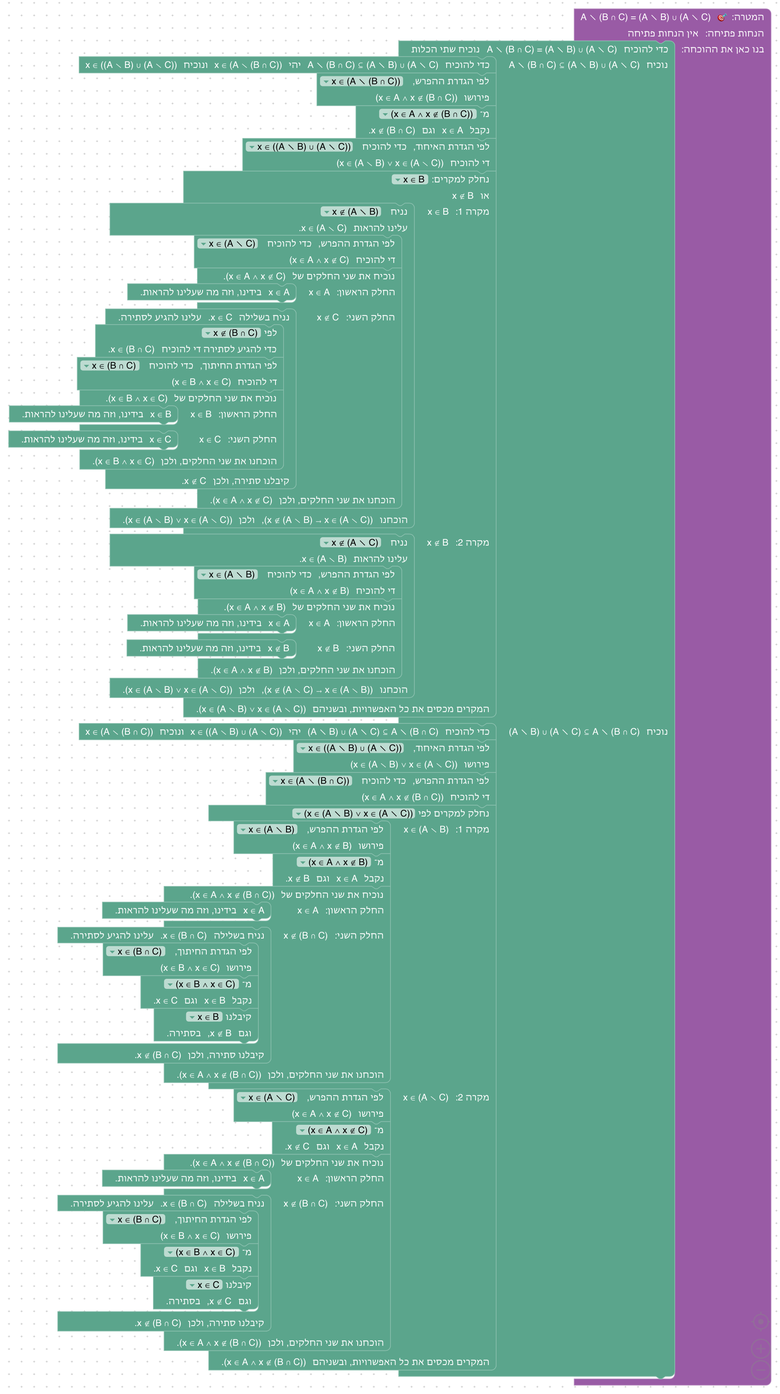
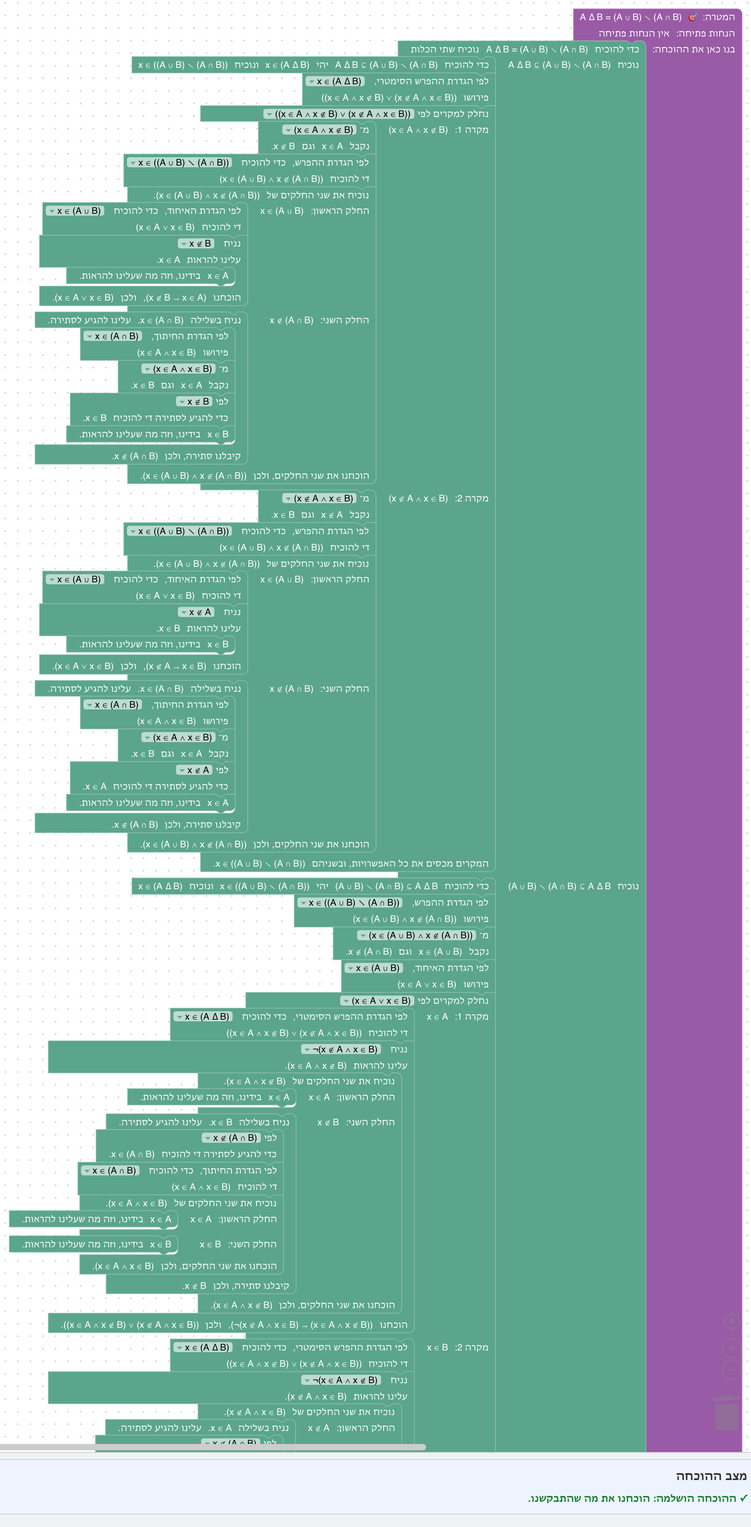
The lecture's remaining proofs: 9.10 (the second definition of the symmetric difference), 10.11 (De Morgan for the unary union) and 11.4-11.5 (the equivalent definition of a partition, each direction)
Sets of complements Set.compls with its display, more rounds to settle the moves' states in long proofs, and the walk types a compound object when the menu offers writing one.

Changed region(s): [[0.0, 0.0, 1.0, 1.0], [0.5221, 0.7747, 0.5528, 0.8057]]

diff --git a/frontend/e2e/solutions.js b/frontend/e2e/solutions.js
@@ -345,6 +345,20 @@ const COURSE = [
             [{
                 label: 'פתרון',
                 steps: [setEq(
+                    [subsetIntro, unfold('x ∈ A ∆ B'), orCases('x ∈ A ∧ ¬x ∈ B ∨ ¬x ∈ A ∧ x ∈ B',
+                        [andElim('x ∈ A ∧ ¬x ∈ B'), unfold('x ∈ (A ∪ B) \\ (A ∩ B)'), andIntro(
+                            [unfold('x ∈ A ∪ B'), orIntro('LEFT'), close],
+                            [notIntro, unfold('x ∈ A ∩ B'), andElim('x ∈ A ∧ x ∈ B'), notElim('¬x ∈ B'), close])],
+                        [andElim('¬x ∈ A ∧ x ∈ B'), unfold('x ∈ (A ∪ B) \\ (A ∩ B)'), andIntro(
+                            [unfold('x ∈ A ∪ B'), orIntro('RIGHT'), close],
+                            [notIntro, unfold('x ∈ A ∩ B'), andElim('x ∈ A ∧ x ∈ B'), notElim('¬x ∈ A'), close])])],
+                    [subsetIntro, unfold('x ∈ (A ∪ B) \\ (A ∩ B)'), andElim('x ∈ A ∪ B ∧ ¬x ∈ A ∩ B'), unfold('x ∈ A ∪ B'), orCases('x ∈ A ∨ x ∈ B',
+                        [unfold('x ∈ A ∆ B'), orIntro('LEFT'), andIntro([close], [notIntro, notElim('¬x ∈ A ∩ B'), unfold('x ∈ A ∩ B'), andIntro([close], [close])])],
+                        [unfold('x ∈ A ∆ B'), orIntro('RIGHT'), andIntro([notIntro, notElim('¬x ∈ A ∩ B'), unfold('x ∈ A ∩ B'), andIntro([close], [close])], [close])])])],
+            }],
+            [{
+                label: 'פתרון',
+                steps: [setEq(
                     [subsetIntro, unfold('x ∈ A \\ (B ∩ C)'), andElim('x ∈ A ∧ ¬x ∈ B ∩ C'), unfold('x ∈ A \\ B ∪ A \\ C'), emCases('x ∈ B',
                         [orIntro('RIGHT'), unfold('x ∈ A \\ C'), andIntro([close], [notIntro, notElim('¬x ∈ B ∩ C'), unfold('x ∈ B ∩ C'), andIntro([close], [close])])],
                         [orIntro('LEFT'), unfold('x ∈ A \\ B'), andIntro([close], [close])])],
@@ -402,6 +416,23 @@ const COURSE = [
             [{
                 label: 'פתרון',
                 steps: [setEq(
+                    [subsetIntro, unfold('x ∈ U \\ ⋃ X'), andElim('x ∈ U ∧ ¬x ∈ ⋃ X'), unfold('x ∈ ⋂ Set.compls U X'), forallIntro, assume,
+                        unfold('S₀ ∈ Set.compls U X'), existsElim('∃ A, A ∈ X ∧ S₀ = U \\ A'), andElim('A₀ ∈ X ∧ S₀ = U \\ A₀'),
+                        rewrite('S₀ = U \\ A₀', 'FORWARD', '__goal__'), unfold('x ∈ U \\ A₀'),
+                        andIntro([close], [notIntro, notElim('¬x ∈ ⋃ X'), unfold('x ∈ ⋃ X'), existsIntro('A₀'), andIntro([close], [close])])],
+                    [subsetIntro, unfold('x ∈ ⋂ Set.compls U X'), unfold('x ∈ U \\ ⋃ X'),
+                        andIntro(
+                            [forallElim('∀ (S : Set obj), S ∈ Set.compls U X → x ∈ S', 'U \\ C'),
+                                claim('U \\ C ∈ Set.compls U X', [unfold('U \\ C ∈ Set.compls U X'), existsIntro('C'), andIntro([close], [['rfl']])]),
+                                forward('U \\ C ∈ Set.compls U X → x ∈ U \\ C', 'U \\ C ∈ Set.compls U X'), unfold('x ∈ U \\ C'), andElim('x ∈ U ∧ ¬x ∈ C'), close],
+                            [notIntro, unfold('x ∈ ⋃ X'), existsElim('∃ S, S ∈ X ∧ x ∈ S'), andElim('S₀ ∈ X ∧ x ∈ S₀'),
+                                forallElim('∀ (S : Set obj), S ∈ Set.compls U X → x ∈ S', 'U \\ S₀'),
+                                claim('U \\ S₀ ∈ Set.compls U X', [unfold('U \\ S₀ ∈ Set.compls U X'), existsIntro('S₀'), andIntro([close], [['rfl']])]),
+                                forward('U \\ S₀ ∈ Set.compls U X → x ∈ U \\ S₀', 'U \\ S₀ ∈ Set.compls U X'), unfold('x ∈ U \\ S₀'), andElim('x ∈ U ∧ ¬x ∈ S₀'), notElim('¬x ∈ S₀'), close])])],
+            }],
+            [{
+                label: 'פתרון',
+                steps: [setEq(
                     [subsetIntro, unfold('x ∈ ⋃ (𝒫 A)'), existsElim('∃ S, S ∈ 𝒫 A ∧ x ∈ S'), andElim('S₀ ∈ 𝒫 A ∧ x ∈ S₀'), unfold('S₀ ∈ 𝒫 A'), subsetElim('S₀ ⊆ A', 'x ∈ S₀'), close],
                     [subsetIntro, unfold('x ∈ ⋃ (𝒫 A)'), existsIntro('A'), andIntro([unfold('A ∈ 𝒫 A'), subsetIntro, close], [close])])],
             }],
@@ -425,6 +456,31 @@ const COURSE = [
                 forallElim(ONLY('T', 't₁', 'y₀'), 't₀'), forward('t₀ ∈ T → y₀ ∈ t₀ → t₀ = t₁', 't₀ ∈ T'), forward('y₀ ∈ t₀ → t₀ = t₁', 'y₀ ∈ t₀'),
                 forallElim(ONLY('T', 't₁', 'y₀'), 'x'), forward('x ∈ T → y₀ ∈ x → x = t₁', 'x ∈ T'), forward('y₀ ∈ x → x = t₁', 'y₀ ∈ x'),
                 rewrite('x = t₁', 'FORWARD', '__goal__'), rewrite('t₀ = t₁', 'BACKWARD', '__goal__'), close])] }],
+            [{ label: 'פתרון', steps: [unfold('partition P A'), andElim(` ${PARTITION('P')}`), andIntro(
+                [setEq(
+                    [subsetIntro, unfold('x ∈ ⋃ P'), existsElim('∃ S, S ∈ P ∧ x ∈ S'), andElim('S₀ ∈ P ∧ x ∈ S₀'),
+                        forallElim(P1('P'), 'S₀'), forward('S₀ ∈ P → S₀ ⊆ A ∧ ∃ y, y ∈ S₀', 'S₀ ∈ P'), andElim('S₀ ⊆ A ∧ ∃ y, y ∈ S₀'), subsetElim('S₀ ⊆ A', 'x ∈ S₀'), close],
+                    [subsetIntro, forallElim(UNIQUE('P'), 'x'), forward(IMPL('P', 'x'), 'x ∈ A'), existsElim(EXISTS('P', 'x')), andElim(CLASS('P', 't₀', 'x')), andElim(REST('P', 't₀', 'x')),
+                        unfold('x ∈ ⋃ P'), existsIntro('t₀'), andIntro([close], [close])])],
+                [forallIntro, forallIntro, assume, assume, orByNegation,
+                    claim('∃ a, a ∈ x₀ ∩ y₀', [byContradiction, notElim('¬x₀ ∩ y₀ = ∅'), setEq(
+                        [subsetIntro, exfalso, notElim('¬∃ a, a ∈ x₀ ∩ y₀'), existsIntro('x'), close],
+                        [subsetIntro, unfold('x ∈ ∅'), exfalso, close])]),
+                    existsElim('∃ a, a ∈ x₀ ∩ y₀'), unfold('a₀ ∈ x₀ ∩ y₀'), andElim('a₀ ∈ x₀ ∧ a₀ ∈ y₀'),
+                    forallElim(P1('P'), 'x₀'), forward('x₀ ∈ P → x₀ ⊆ A ∧ ∃ y, y ∈ x₀', 'x₀ ∈ P'), andElim('x₀ ⊆ A ∧ ∃ y, y ∈ x₀'), subsetElim('x₀ ⊆ A', 'a₀ ∈ x₀'),
+                    forallElim(UNIQUE('P'), 'a₀'), forward(IMPL('P', 'a₀'), 'a₀ ∈ A'), existsElim(EXISTS('P', 'a₀')), andElim(CLASS('P', 't₀', 'a₀')), andElim(REST('P', 't₀', 'a₀')),
+                    forallElim(ONLY('P', 't₀', 'a₀'), 'x₀'), forward('x₀ ∈ P → a₀ ∈ x₀ → x₀ = t₀', 'x₀ ∈ P'), forward('a₀ ∈ x₀ → x₀ = t₀', 'a₀ ∈ x₀'),
+                    forallElim(ONLY('P', 't₀', 'a₀'), 'y₀'), forward('y₀ ∈ P → a₀ ∈ y₀ → y₀ = t₀', 'y₀ ∈ P'), forward('a₀ ∈ y₀ → y₀ = t₀', 'a₀ ∈ y₀'),
+                    rewrite('x₀ = t₀', 'FORWARD', '__goal__'), rewrite('y₀ = t₀', 'FORWARD', '__goal__'), ['rfl']])] }],
+            [{ label: 'פתרון', steps: [unfold('partition P A'), andIntro(
+                [close],
+                [forallIntro, assume, rewrite('⋃ P = A', 'BACKWARD', 'a₀ ∈ A'), unfold('a₀ ∈ ⋃ P'), existsElim('∃ S, S ∈ P ∧ a₀ ∈ S'), andElim('S₀ ∈ P ∧ a₀ ∈ S₀'),
+                    existsIntro('S₀'), andIntro([close], [andIntro([close], [forallIntro, assume, assume,
+                        forallElim('∀ (x y : Set obj), x ∈ P → y ∈ P → x ∩ y = ∅ ∨ x = y', `t'₀`), forallElim(`∀ (y : Set obj), t'₀ ∈ P → y ∈ P → t'₀ ∩ y = ∅ ∨ t'₀ = y`, 'S₀'),
+                        forward(`t'₀ ∈ P → S₀ ∈ P → t'₀ ∩ S₀ = ∅ ∨ t'₀ = S₀`, `t'₀ ∈ P`), forward(`S₀ ∈ P → t'₀ ∩ S₀ = ∅ ∨ t'₀ = S₀`, 'S₀ ∈ P'),
+                        orCases(`t'₀ ∩ S₀ = ∅ ∨ t'₀ = S₀`,
+                            [exfalso, claim(`a₀ ∈ t'₀ ∩ S₀`, [unfold(`a₀ ∈ t'₀ ∩ S₀`), andIntro([close], [close])]), rewrite(`t'₀ ∩ S₀ = ∅`, 'FORWARD', `a₀ ∈ t'₀ ∩ S₀`), unfold('a₀ ∈ ∅'), close],
+                            [close])])])])] }],
         ],
     },
 ];

diff --git a/frontend/src/game/unit11World.js b/frontend/src/game/unit11World.js
@@ -12,6 +12,7 @@ import { prepareLevels } from './levelXml';
 export const unit11WorldName = 'יחידה 11 - חלוקות';
 
 const SETS = 'variable {obj : Type} {A : Set obj} {S T : Set (Set obj)}';
+const ONE_PARTITION = 'variable {obj : Type} {A : Set obj} {P : Set (Set obj)}';
 
 // The moves as the toolbox shows them, before they are placed.
 const SUBSET_INTRO_BLOCK = '"כדי להוכיח הכלה: יהי איבר של הקבוצה המוכלת, ונוכיח שהוא שייך לקבוצה המכילה"';
@@ -37,7 +38,7 @@ const partition = {
 const level = (number, fields) => ({
     id: `unit11-${number}`,
     levelNumber: number,
-    totalLevels: 3,
+    totalLevels: 5,
     usesSets: true,
     variableLine: SETS,
     params: '',
@@ -116,5 +117,48 @@ export const unit11Levels = prepareLevels([
         ],
         conclusion: `זה המשפט מההרצאה. שימו לב שהיחידות שבה השתמשנו היא של החלוקה **T**: s ו־t שתיהן ב־T. אילו s היה רק ב־S, לא הייתה סיבה לשוויון.
 התנאי שמחלקה לא ריקה נחוץ: בלעדיו אפשר להוסיף ל־T את ∅ ולקבל S ⊊ T, עם אותה הגדרה של "כל איבר שייך למחלקה אחת בדיוק".`,
+    }),
+    level(4, {
+        title: 'ההגדרה השקולה של חלוקה: הכיוון ⇒',
+        name: 'unit11_l4_partition_equiv_forward',
+        variableLine: ONE_PARTITION,
+        params: '(hP : partition P A)',
+        proposition: '⋃ P = A ∧ ∀ (x y : Set obj), x ∈ P → y ∈ P → x ∩ y = ∅ ∨ x = y',
+        claims: ['∃ a, a ∈ x₀ ∩ y₀'],
+        toolboxBlocks: ['and_intro', 'unfold', 'and_elim', 'forall_elim', 'forward', 'exists_elim', 'exists_intro', 'set_eq', 'subset_intro', 'subset_elim', 'forall_intro', 'assume', 'or_by_negation', 'by_contradiction', 'exfalso', 'claim', 'not_elim', 'rewrite', 'rfl', 'exact'],
+        introduction: `# ההגדרה השקולה של חלוקה
+
+בהרצאה: S חלוקה של A אם ורק אם שלושה תנאים: (1) כל מחלקה היא תת־קבוצה לא ריקה של A, (2) \`⋃S = A\`, ו־(3) כל שתי מחלקות x, y ∈ S זרות או שוות: \`x ∩ y = ∅ ∨ x = y\`. תנאי (1) הוא החלק הראשון של ההגדרה, ולכן נשאר להוכיח את (2) ואת (3).
+
+(⇒) נניח ש־P חלוקה של A. (2): ⊆: מחלקה שמכילה את x היא תת־קבוצה של A. ⊇: לכל a ∈ A יש מחלקה שמכילה אותו. (3): נניח ש־x ∩ y ≠ ∅, ויהי a ∈ x ∩ y. מיחידות המחלקה של a, x = y.
+
+יש לשים לב שכאן שם הקבוצה הוא P, כדי שלא יתבלבל עם המשתנה S שבהגדרת האיחוד האונרי.`,
+        hints: [
+            `פתחו את ההגדרה של partition(P, A), ופרקו את ה"וגם". הוכיחו את שני חלקי ה"וגם" של המטרה, ${AND_INTRO_BLOCK}.`,
+            `החלק הראשון, ⋃P = A: ${SET_EQ_BLOCK}. ב־⋃P ⊆ A: יהי x ∈ ⋃P, ופתחו את ההגדרה: x ∈ S₀ לאיזושהי S₀ ∈ P. החלק הראשון של ההגדרה נותן S₀ ⊆ A.`,
+            `ב־A ⊆ ⋃P: יהי x ∈ A. החלק השני של ההגדרה נותן מחלקה t₀ ∈ P עם x ∈ t₀, ולכן x ∈ ⋃P, עם העד t₀.`,
+            `החלק השני: יהיו x, y מחלקות ב־P. כדי להוכיח את ה"או", נניח x ∩ y ≠ ∅, ונוכיח x = y. כמו בהרצאה: יש a ∈ x ∩ y (בהוכחה בשלילה: אחרת x ∩ y = ∅).`,
+            `מיחידות המחלקה של a, x = t₀ וגם y = t₀, ולכן x = y.`,
+        ],
+        conclusion: 'הראינו ש־⋃P = A ושכל שתי מחלקות זרות או שוות. בכיוון ⇐, בשלב הבא, חוזרים מ־(1)–(3) להגדרה המקורית.',
+    }),
+    level(5, {
+        title: 'ההגדרה השקולה של חלוקה: הכיוון ⇐',
+        name: 'unit11_l5_partition_equiv_backward',
+        variableLine: ONE_PARTITION,
+        params: '(h1 : ∀ (t : Set obj), t ∈ P → t ⊆ A ∧ ∃ y, y ∈ t) (h2 : ⋃ P = A) (h3 : ∀ (x y : Set obj), x ∈ P → y ∈ P → x ∩ y = ∅ ∨ x = y)',
+        proposition: 'partition P A',
+        claims: ["a₀ ∈ t'₀ ∩ S₀"],
+        toolboxBlocks: ['unfold', 'and_intro', 'forall_intro', 'assume', 'rewrite', 'exists_elim', 'and_elim', 'exists_intro', 'forall_elim', 'forward', 'or_elim', 'claim', 'exfalso', 'exact'],
+        introduction: `# ההגדרה השקולה של חלוקה: הכיוון ⇐
+
+(⇐) נניח (1) כל מחלקה לא ריקה ומוכלת ב־A, (2) \`⋃P = A\`, ו־(3) כל שתי מחלקות זרות או שוות. נוכיח שזו חלוקה: החלק הראשון של ההגדרה הוא (1). לכל a ∈ A: מ־(2), a ∈ ⋃P, ולכן יש מחלקה t ∈ P עם a ∈ t. יחידות: אם t′ ∈ P ו־a ∈ t′, אז מ־(3), t ∩ t′ = ∅ או t = t′. האפשרות הראשונה נשללת, כי a ∈ t ∩ t′. לכן t′ = t.`,
+        hints: [
+            `פתחו את ההגדרה במטרה, והוכיחו את שני החלקים. החלק הראשון הוא (1), והוא כבר בידינו.`,
+            `בחלק השני: יהי a ∈ A. מ־⋃P = A, החליפו את A ב־⋃P לפי השוויון, ופתחו את הגדרת האיחוד האונרי: מקבלים S₀ ∈ P עם a ∈ S₀. בחרו את S₀, וכבר בידינו S₀ ∈ P ו־a ∈ S₀.`,
+            `ליחידות: יהי t′ ∈ P עם a ∈ t′. הציבו ב־(3) את t′ ואת S₀: מקבלים t′ ∩ S₀ = ∅ או t′ = S₀. חלקו למקרים.`,
+            `במקרה t′ ∩ S₀ = ∅ נקבל סתירה: טענת עזר a ∈ t′ ∩ S₀, והחלפה לפי השוויון נותנת a ∈ ∅. במקרה t′ = S₀ סיימנו.`,
+        ],
+        conclusion: 'הראינו ש־P חלוקה של A. יחד עם הכיוון ⇒: P חלוקה של A אם ורק אם מתקיימים שלושת התנאים. בכל אחת משתי ההגדרות אפשר להשתמש לפי הנוחות.',
     }),
 ]);

diff --git a/frontend/src/game/unit10World.js b/frontend/src/game/unit10World.js
@@ -13,6 +13,7 @@ import { prepareLevels } from './levelXml';
 export const unit10WorldName = 'יחידה 10 - קבוצת החזקה ופעולות אונריות';
 
 const SETS = 'variable {obj : Type} {A B : Set obj}';
+const UNIVERSE = 'variable {obj : Type} {U : Set obj} {X : Set (Set obj)}';
 const SET_OF_SETS = 'variable {obj : Type} {A : Set obj} {X : Set (Set obj)}';
 const TWO_FAMILIES = 'variable {obj : Type} {X Y : Set (Set obj)}';
 
@@ -33,6 +34,10 @@ const EXISTS_ELIM_BLOCK = '"לפי ? ניתן שם לעצם כזה."';
 const FORALL_ELIM_BLOCK = '"ב־ ? נציב ? ונקבל מה שהוא אומר על העצם."';
 const FORWARD_BLOCK = '"מ־ ? ומ־ ? נקבל את המסקנה של הגרירה."';
 const CLOSE_BLOCK = '"המטרה בידינו, וזה מה שעלינו להראות."';
+const NOT_INTRO_BLOCK = '"נניח בשלילה את הטענה שהמטרה שוללת..."';
+const NOT_ELIM_BLOCK = '"לפי ? כדי להגיע לסתירה די להוכיח את הטענה שהיא שוללת."';
+const REWRITE_BLOCK = '"לפי השוויון ? נחליף ... בתוך ?"';
+const RFL_BLOCK = '"שני הצדדים שווים לפי ההגדרה."';
 const FORALL_INTRO_BLOCK = '"יהי עצם שרירותי. עלינו להראות שהוא מקיים את התכונה."';
 
 const powerset = { symbol: 'קבוצת החזקה', doc: '𝒫(A) = {X | X ⊆ A}: הקבוצה שאיבריה הם כל תת־הקבוצות של A. לכן X ∈ 𝒫(A) פירושו X ⊆ A.' };
@@ -44,7 +49,7 @@ const sInter = { symbol: 'החיתוך האונרי', doc: '⋂X = {a | ∀A ∈
 const level = (number, fields) => ({
     id: `unit10-${number}`,
     levelNumber: number,
-    totalLevels: 11,
+    totalLevels: 12,
     usesSets: true,
     variableLine: SETS,
     params: '',
@@ -262,6 +267,31 @@ export const unit10Levels = prepareLevels([
         conclusion: `כשהאוסף גדל, החיתוך קטן: יש יותר קבוצות לחתוך, ופחות איברים משותפים לכולן. ושוב: ⋂ הולך עם "לכל", ולכן מוכיחים שייכות אליו בעצם שרירותי, כמו בתבנית של ההרצאה.`,
     }),
     level(11, {
+        title: 'דה־מורגן לאיחוד אונרי',
+        name: 'unit10_l11_de_morgan_sunion',
+        variableLine: UNIVERSE,
+        params: '(C : Set obj) (hC : C ∈ X)',
+        proposition: 'U \\ ⋃ X = ⋂ (Set.compls U X)',
+        claims: ['U \\ C ∈ Set.compls U X', 'U \\ S₀ ∈ Set.compls U X'],
+        toolboxBlocks: ['set_eq', 'subset_intro', 'unfold', 'and_elim', 'and_intro', 'forall_intro', 'assume', 'exists_elim', 'exists_intro', 'rewrite', 'not_intro', 'not_elim', 'claim', 'forall_elim', 'forward', 'rfl', 'exact'],
+        introduction: `# דה־מורגן לאיחוד אונרי
+
+בהרצאה: כלל דה־מורגן לאיחוד אונרי. בקבוצת יקום U ובאוסף X של קבוצות (שלא ריק): \`U ∖ ⋃X = ⋂{U ∖ A | A ∈ X}\`, המשלים של האיחוד הוא החיתוך של המשלימים. כאן {U ∖ A | A ∈ X} היא האוסף של כל הקבוצות U ∖ A, כשהקבוצה A עוברת על X.
+
+x ∈ U ∖ ⋃X פירושו x ∈ U ו־x ∉ ⋃X, כלומר x לא שייך לאף קבוצה של X. וגם x ∈ ⋂{U ∖ A | A ∈ X} פירושו שלכל A ∈ X, x ∈ U ∖ A. ההוכחה היא שתי הכלות, בתבנית של ההרצאה.
+
+כאן C ∈ X, ולכן X אינו ריק, ו־⋂ מוגדר. נחוץ לפחות איבר אחד של X כדי להראות ש־x ∈ U.`,
+        newDefinitions: [{ symbol: 'משלימי הקבוצות של אוסף', doc: '{U ∖ A | A ∈ X}: האוסף שאיבריו הם הקבוצות U ∖ A, לכל A ∈ X. לכן B ∈ {U ∖ A | A ∈ X} פירושו ∃A (A ∈ X ∧ B = U ∖ A).' }],
+        hints: [
+            `גררו את הבלוק ${SET_EQ_BLOCK}. בחלק הראשון: ${SUBSET_INTRO_BLOCK} יהי x ∈ U ∖ ⋃X, פתחו את ההגדרה ופרקו את ה"וגם": x ∈ U ו־x ∉ ⋃X.`,
+            `פתחו את ההגדרה של x ∈ ⋂{U ∖ A | A ∈ X} במטרה: ∀S (S ∈ {U ∖ A | A ∈ X} → x ∈ S). ${FORALL_INTRO_BLOCK} ואחריו ${ASSUME_BLOCK}: S₀ ∈ {U ∖ A | A ∈ X}. פתחו את ההגדרה: ${EXISTS_ELIM_BLOCK} נותן A₀ ∈ X עם S₀ = U ∖ A₀.`,
+            `${REWRITE_BLOCK} עם S₀ = U ∖ A₀: נשאר להוכיח x ∈ U ∖ A₀, כלומר x ∈ U (בידינו) ו־x ∉ A₀: ${NOT_INTRO_BLOCK} x ∈ A₀, ו${NOT_ELIM_BLOCK} עם x ∉ ⋃X: די להוכיח x ∈ ⋃X, עם העד A₀.`,
+            `בחלק השני: יהי x ∈ ⋂{U ∖ A | A ∈ X}. בעזרת C ∈ X, ${CLAIM_BLOCK} U ∖ C ∈ {U ∖ A | A ∈ X} (העד C), והצבה ב־∀: x ∈ U ∖ C, ובפרט x ∈ U.`,
+            `ועוד: x ∉ ⋃X. נניח x ∈ ⋃X, עם עד S₀ ∈ X, x ∈ S₀. אז U ∖ S₀ ∈ {U ∖ A | A ∈ X} (עם העד S₀), ולכן x ∈ U ∖ S₀, בסתירה ל־x ∈ S₀.`,
+        ],
+        conclusion: 'הוכחתם: U ∖ ⋃X = ⋂{U ∖ A | A ∈ X}, כמו בהרצאה. זה כלל דה־מורגן לאיחוד אונרי: "לא שייך לאיחוד" פירושו "לא שייך לאף אחת מהקבוצות", ו"שייך לכל המשלימים" פירושו אותו דבר. הכלל הכפול, למשלים של החיתוך, מוכח באופן דומה.',
+    }),
+    level(12, {
         title: 'שלב בונוס: איחוד אונרי של קבוצת החזקה',
         name: 'unit10_l9_sunion_powerset',
         proposition: '⋃ (𝒫 A) = A',

diff --git a/frontend/src/game/unit9World.js b/frontend/src/game/unit9World.js
@@ -57,7 +57,7 @@ const symmDiff = { symbol: 'ההפרש הסימטרי', doc: 'A ∆ B = {x | (x 
 const level = (number, fields) => ({
     id: `unit9-${number}`,
     levelNumber: number,
-    totalLevels: 10,
+    totalLevels: 11,
     usesSets: true,
     variableLine: SETS,
     params: '',
@@ -248,9 +248,28 @@ export const unit9Levels = prepareLevels([
             'בחלק השני, חלקו למקרים לפי x ∈ (A ∖ B) ∨ x ∈ (B ∖ A), פתחו את ההגדרה של המקרה, ובחרו את הצד המתאים של ההפרש הסימטרי.',
         ],
         conclusion: `A ∆ B = (A ∖ B) ∪ (B ∖ A), כמו בהרצאה: "x ∈ A ∆ B ⟺ (x ∈ A ∧ x ∉ B) ∨ (x ∉ A ∧ x ∈ B) ⟺ x ∈ (A ∖ B) ∨ x ∈ (B ∖ A)".
-בהרצאה הוכחנו גם ש־A ∆ B = (A ∪ B) ∖ (A ∩ B), ולכן לשלוש ההגדרות אותה משמעות, ואפשר להשתמש בכל אחת מהן לפי הנוחות.`,
+בשלב הבא נראה גם ש־A ∆ B = (A ∪ B) ∖ (A ∩ B), ולכן לשלוש ההגדרות אותה משמעות, ואפשר להשתמש בכל אחת מהן לפי הנוחות.`,
     }),
     level(10, {
+        title: 'הגדרה שנייה להפרש הסימטרי',
+        name: 'unit9_l10_symmetric_difference_two',
+        proposition: 'A ∆ B = (A ∪ B) \\ (A ∩ B)',
+        toolboxBlocks: ['set_eq', 'subset_intro', 'unfold', 'or_elim', 'or_by_negation', 'or_intro', 'and_elim', 'and_intro', 'not_intro', 'not_elim', 'exact'],
+        introduction: `# הגדרה שנייה להפרש הסימטרי
+
+בהרצאה נתנו שתי הגדרות להפרש הסימטרי: \`A ∆ B = (A ∖ B) ∪ (B ∖ A)\` (שלב 9.9) ו־\`A ∆ B = (A ∪ B) ∖ (A ∩ B)\`. כאן נוכיח את השקילות עם ההגדרה של ההרצאה, "בדיוק אחת מהקבוצות": x ∈ A ∆ B אם ורק אם x ∈ A ∪ B ו־x ∉ A ∩ B.
+
+בהכלה הראשונה מחלקים למקרים לפי ה"או" של ההפרש הסימטרי. במקרה x ∈ A ∧ x ∉ B, x ∈ A ∪ B, ו־x ∉ A ∩ B כי אילו x ∈ A ∩ B היה גם x ∈ B. בהכלה השנייה מחלקים למקרים לפי x ∈ A ∨ x ∈ B: אם x ∈ A, אז x ∉ B, כי אילו x ∈ B היה x ∈ A ∩ B, בסתירה.`,
+        newDefinitions: [inter],
+        hints: [
+            `גררו את הבלוק ${SET_EQ_BLOCK}. בכל חלק: יהי x באגף שמאל, ופתחו את ההגדרות בהנחה ובמטרה.`,
+            `בחלק הראשון, ${OR_ELIM_BLOCK} עם ה"או" של ההפרש הסימטרי. בכל מקרה פרקו את ה"וגם", והוכיחו את שני חלקי ה"וגם" של המטרה: x ∈ A ∪ B (בחירת צד), ו־x ∉ A ∩ B (${NOT_INTRO_BLOCK}: x ∈ A ∩ B, ופתחו את ההגדרה, ו${NOT_ELIM_BLOCK} עם x ∉ B).`,
+            `בחלק השני, פרקו את ה"וגם" שבהנחה, ו${OR_ELIM_BLOCK} לפי x ∈ A ∨ x ∈ B. במקרה x ∈ A בחרו את הצד הראשון של ההפרש הסימטרי: x ∈ A כבר בידינו, ו־x ∉ B: נניח x ∈ B, ו${NOT_ELIM_BLOCK} עם x ∉ A ∩ B: די להוכיח x ∈ A ∩ B, ופתחו את ההגדרה והוכיחו את שני החלקים.`,
+            `במקרה x ∈ B אותו דבר, עם הצד השני של ההפרש הסימטרי.`,
+        ],
+        conclusion: 'A ∆ B = (A ∖ B) ∪ (B ∖ A) = (A ∪ B) ∖ (A ∩ B): שלוש ההגדרות של ההפרש הסימטרי שקולות, ואפשר להשתמש בכל אחת מהן. בשתיהן x שייך לאחת הקבוצות בדיוק.',
+    }),
+    level(11, {
         title: 'שלב בונוס: כלל דה־מורגן',
         name: 'unit9_l9_de_morgan',
         proposition: 'A \\ (B ∩ C) = (A \\ B) ∪ (A \\ C)',

diff --git a/frontend/src/game/formatProofGoal.js b/frontend/src/game/formatProofGoal.js
@@ -267,6 +267,7 @@ const writeImages = (text) => {
     const group = String.raw`(\((?:[^()]|\((?:[^()]|\([^()]*\))*\))*\)|[^\s()]+)`;
     result = result.replace(new RegExp(String.raw`Set\.sep ${group} ([^\s()]+)`, 'u'), (match, set, p) => `{x ∈ ${set} | ${p}(x)}`);
     result = result.replace(new RegExp(String.raw`Set\.repl ([^\s()]+) ${group}`, 'u'), (match, f, set) => `{${f}(x) | x ∈ ${set}}`);
+    result = result.replace(new RegExp(String.raw`Set\.compls ([^\s()]+) ${group}`, 'u'), (match, u, set) => `{${u} \\ A | A ∈ ${set}}`);
     for (let previous = null; previous !== result;) {
         previous = result;
         result = result.replace(/Set\.(image|preimage) (\S+) (\((?:[^()]|\((?:[^()]|\([^()]*\))*\))*\)|[^\s()]+)/u,
@@ -415,6 +416,8 @@ const SET_OPERATIONS = {
     image: { lemma: 'easylean_mem_image', name: 'התמונה', means: (t, [f, a]) => `∃ x, x ∈ ${a} ∧ ${f} x = ${t}` },
     preimage: { lemma: 'easylean_mem_preimage', name: 'התמונה ההפוכה', means: (t, [f, b]) => `${f} ${t} ∈ ${b}` },
     // Sets defined as the lecture's slide does (unit 8): by separation, {x ∈ A | P(x)}, and by a template, {f(x) | x ∈ A}.
+    // The complements, in a universe U, of the sets of a family X (unit 10): {U ∖ A | A ∈ X}.
+    compls: { lemma: 'easylean_mem_compls', name: 'משלימי הקבוצות של אוסף', means: (t, [u, x]) => `∃ A, A ∈ ${x} ∧ ${t} = ${u} \\ A` },
     sep: { lemma: 'easylean_mem_sep', name: 'קבוצה לפי הפרדה', means: (t, [a, p]) => `${t} ∈ ${a} ∧ ${p} ${t}` },
     repl: { lemma: 'easylean_mem_repl', name: 'קבוצה לפי תבנית', means: (t, [f, a]) => `∃ x, x ∈ ${a} ∧ ${f} x = ${t}` },
     setOf: { lemma: 'easylean_mem_setOf', name: 'קבוצה לפי תכונה', means: (t, [x, p]) => substituteName(stripOuterParentheses(p), stripOuterParentheses(x), t) },
@@ -464,6 +467,8 @@ const mainSetOperation = (text) => {
     if (equivalenceClass) return { operation: '[]_', operands: [equivalenceClass[1], equivalenceClass[2]] };
     const image = set.match(/^Set\.(image|preimage) (\S+) (.+)$/);
     if (image) return { operation: image[1], operands: [image[2], image[3]] };
+    const complements = set.match(/^Set\.compls (\S+) (.+)$/u);
+    if (complements) return { operation: 'compls', operands: [complements[1], complements[2]] };
     const separation = set.match(/^Set\.sep (.+) (\S+)$/u);
     if (separation) return { operation: 'sep', operands: [separation[1], separation[2]] };
     const template = set.match(/^Set\.repl (\S+) (.+)$/u);

diff --git a/frontend/src/generator/lean.js b/frontend/src/generator/lean.js
@@ -64,8 +64,10 @@ theorem easylean_mem_compl {α : Type u} {A : Set α} {x : α} : x ∈ Aᶜ ↔ 
 theorem easylean_mem_empty {α : Type u} {x : α} : x ∈ (∅ : Set α) ↔ False := Iff.rfl
 theorem easylean_mem_powerset {α : Type u} {A B : Set α} : B ∈ 𝒫 A ↔ B ⊆ A := Iff.rfl
 theorem easylean_mem_sUnion {α : Type u} {F : Set (Set α)} {x : α} : x ∈ ⋃ F ↔ ∃ S, S ∈ F ∧ x ∈ S := Iff.rfl
+@[pp_nodot] def Set.compls {α : Type u} (U : Set α) (X : Set (Set α)) : Set (Set α) := fun B => ∃ A, A ∈ X ∧ B = U \\ A
 def partition {α : Type u} (S : Set (Set α)) (A : Set α) : Prop :=
   (∀ t, t ∈ S → t ⊆ A ∧ ∃ y, y ∈ t) ∧ ∀ a, a ∈ A → ∃ t, t ∈ S ∧ a ∈ t ∧ ∀ t', t' ∈ S → a ∈ t' → t' = t
+theorem easylean_mem_compls {α : Type u} {U : Set α} {X : Set (Set α)} {B : Set α} : B ∈ Set.compls U X ↔ ∃ A, A ∈ X ∧ B = U \\ A := Iff.rfl
 theorem easylean_partition {α : Type u} {S : Set (Set α)} {A : Set α} : partition S A ↔ ((∀ t, t ∈ S → t ⊆ A ∧ ∃ y, y ∈ t) ∧ ∀ a, a ∈ A → ∃ t, t ∈ S ∧ a ∈ t ∧ ∀ t', t' ∈ S → a ∈ t' → t' = t) := Iff.rfl
 theorem easylean_mem_sInter {α : Type u} {F : Set (Set α)} {x : α} : x ∈ ⋂ F ↔ ∀ S, S ∈ F → x ∈ S := Iff.rfl
 theorem easylean_subset_intro {α : Type u} {A B : Set α} (h : ∀ x, x ∈ A → x ∈ B) : A ⊆ B := h

diff --git a/frontend/e2e/walk.spec.js b/frontend/e2e/walk.spec.js
@@ -536,6 +536,12 @@ const chooseValue = async (page, id, field, value) => {
             return;
         }
     }
+    // An object that is not a name, such as U \\ C, is typed by the student (the last item of the menu).
+    if (field === 'TERM' && options.includes('__write_own__')) {
+        await page.evaluate(([id, field, typed]) => window.__easyleanWorkspace.getBlockById(id).getField(field).setValue(typed), [id, field, value]);
+        await page.waitForTimeout(3500);
+        return;
+    }
     throw new Error(`menu of ${field} offers ${options.join(' | ')}, not ${value}`);
 };
 

diff --git a/frontend/src/game/GameWorkspace.jsx b/frontend/src/game/GameWorkspace.jsx
@@ -296,7 +296,7 @@ const GameWorkspace = ({
     // general wording.
     const moveStatesRequestRef = useRef(0);
     const settleMoveStates = async (requestId, signal) => {
-        for (let round = 0, checked = null; round < 5; round += 1) {
+        for (let round = 0, checked = null; round < 8; round += 1) {
             const source = buildMoveStatesSource(workspace, level, preamble);
             if (!source || source.code === checked || signal?.aborted) return;
             checked = source.code;

diff --git a/docs/curriculum/10-power-set.md b/docs/curriculum/10-power-set.md
@@ -29,7 +29,8 @@
 | 10.8 | דוגמה: שימוש בתבניות (⋂X ⊆ A) | A ∈ X ⊢ ⋂X ⊆ A | הכלה, לפי ההגדרה, הצבה, הסקה קדימה או אחורה, סיום |
 | 10.9 | דוגמה: שימוש בתבניות (A ⊆ ⋃X) | A ∈ X ⊢ A ⊆ ⋃X | הכלה, לפי ההגדרה, בחירת עד, "וגם", סיום |
 | 10.10 | תרגיל לדוגמה: X ⊆ Y → ⋂Y ⊆ ⋂X ("החיתוך מתהפך") | X ⊆ Y ⊢ ⋂Y ⊆ ⋂X | הכלה, לפי ההגדרה, "לכל", נניח, שימוש בהכלה, הצבה, הסקה קדימה, סיום |
-| 10.11 | איחוד אונרי של קבוצת החזקה (בונוס) | ⋃𝒫(A) = A | שוויון קבוצות, הכלה, לפי ההגדרה, "קיים", "וגם", בחירת עד, סיום |
+| 10.11 | דה־מורגן לאיחוד אונרי | U ∖ ⋃X = ⋂{U ∖ A \| A ∈ X}, כש־X לא ריקה | שוויון קבוצות, הכלה, לפי ההגדרה, "לכל", "קיים", החלפה לפי שוויון, טענת עזר, שלילה, סיום |
+| 10.12 | איחוד אונרי של קבוצת החזקה (בונוס) | ⋃𝒫(A) = A | שוויון קבוצות, הכלה, לפי ההגדרה, "קיים", "וגם", בחירת עד, סיום |
 
 ### 10.4: הכיוון השני, בטענת עזר
 
@@ -61,19 +62,25 @@
 
 ![10.10](images/unit10-level10-a.png)
 
-### 10.11: איחוד אונרי של קבוצת החזקה
+### 10.11: דה־מורגן לאיחוד אונרי
+
+**למה כך:** "הוכחות של דה מורגן לאיחוד אונרי" מופיעות בתכנון בהערות לתרגול. האוסף {U ∖ A | A ∈ X} הוא `Set.compls U X` (`SET_PRELUDE`), והוא מוצג כך; שייכות אליו היא `∃ A, A ∈ X ∧ B = U ∖ A` (`easylean_mem_compls`), והסימון הוא תצוגה בלבד (`writeImages` ב־`formatProofGoal.js`). X לא ריקה (C ∈ X), כי ⋂ של אוסף ריק לא מוגדר. הכיוון ⊆: מ־x ∈ U ∖ ⋃X, לכל משלים U ∖ A₀ בן האוסף (לפי "קיים") מחליפים ב־U ∖ A₀, וה־x ∉ A₀ מושג מ־x ∉ ⋃X. הכיוון ⊇: x ∈ U נובע מהצבה ב־U ∖ C, ו־x ∉ ⋃X: אילו x ∈ S₀ ∈ X, הצבה ב־U ∖ S₀ נותנת x ∉ S₀.
+
+![10.11](images/unit10-level11-a.png)
+
+### 10.12: איחוד אונרי של קבוצת החזקה
 
 **למה כך:** בכיוון ⊇ העד בהרצאה הוא היחידון {x}; בבלוקים אין יחידונים, ולכן העד הוא A עצמה (A ∈ 𝒫(A), 10.1), והטקסט אומר זאת. הסיכום מנסח את ההערה של ההרצאה על שני עדים בשמות שונים (S₀, S₁) נכון: בשלב הזה יש רק עד אחד.
 
 ### שאר השלבים
 
-![10.1](images/unit10-level1-a.png) ![10.2](images/unit10-level2-a.png) ![10.3](images/unit10-level3-a.png) ![10.5](images/unit10-level5-a.png) ![10.8](images/unit10-level8-a.png) ![10.9](images/unit10-level9-a.png) ![10.11](images/unit10-level11-a.png)
+![10.1](images/unit10-level1-a.png) ![10.2](images/unit10-level2-a.png) ![10.3](images/unit10-level3-a.png) ![10.5](images/unit10-level5-a.png) ![10.8](images/unit10-level8-a.png) ![10.9](images/unit10-level9-a.png) ![10.12](images/unit10-level12-a.png)
 
 ## מה מההרצאה לא נכנס, ולמה
 
 - **|𝒫(A)| = 2ⁿ, הכלי האינטראקטיבי, 𝒫({1,2}):** אין ספירה וקבוצות מפורשות.
 - **הכיוון "רק אם" של 𝒫(A ∪ B) = 𝒫(A) ∪ 𝒫(B), וההפרכה בדוגמה {1}, {2}:** צריך את הקבוצה {a, b}; הכיוון "אם" הוא 10.7.
-- **⋃ ו־⋂ של אוסף שמוגדר בתבנית, דה־מורגן לאונריים, קיום ויחידות של האיחוד והחיתוך, תנאים שקולים ל־X = 𝒫(A):** אין בבלוקים קבוצה מוגדרת בתבנית על קבוצות; חלק מהן אפשריות בעתיד.
+- **⋃ ו־⋂ של אוסף שמוגדר בתבנית (חוץ ממשלימי האוסף ב־10.11), הדה־מורגן הכפול, קיום ויחידות של האיחוד והחיתוך, תנאים שקולים ל־X = 𝒫(A):** אין בבלוקים קבוצה מוגדרת בתבנית על קבוצות; חלק מהן אפשריות בעתיד.
 - **חלוקות:** יחידה 11.
 
 </div>

diff --git a/docs/curriculum/09-set-operations.md b/docs/curriculum/09-set-operations.md
@@ -28,7 +28,8 @@
 | 9.7 | תבנית: איך מוכיחים שקבוצה ריקה (הכיוון ⇒) | (A ∖ B = ∅) → A ⊆ B | נניח, הכלה, בשלילה, טענת עזר, החלפה לפי שוויון, לפי ההגדרה, סיום |
 | 9.8 | טבלת המצבים: גם להכלה | A ∖ C ⊆ (A ∖ B) ∪ (B ∖ C) | הכלה, לפי ההגדרה, "וגם", חלוקה למקרים לפי x ∈ B או שלילתה, בחירת צד, סיום |
 | 9.9 | טענה: A ∆ B = (A ∖ B) ∪ (B ∖ A) | A ∆ B = (A ∖ B) ∪ (B ∖ A) | שוויון קבוצות, הכלה, לפי ההגדרה, חלוקה למקרים, בחירת צד, "וגם", סיום |
-| 9.10 | הוכחת כלל דה־מורגן (בונוס) | A ∖ (B ∩ C) = (A ∖ B) ∪ (A ∖ C) | המהלכים של שתי ההכלות, כולל חלוקה למקרים לפי x ∈ B |
+| 9.10 | הגדרה שנייה להפרש הסימטרי | A ∆ B = (A ∪ B) ∖ (A ∩ B) | שוויון קבוצות, הכלה, לפי ההגדרה, חלוקה למקרים, בחירת צד, שלילה, סתירה מהשלילה, סיום |
+| 9.11 | הוכחת כלל דה־מורגן (בונוס) | A ∖ (B ∩ C) = (A ∖ B) ∪ (A ∖ C) | המהלכים של שתי ההכלות, כולל חלוקה למקרים לפי x ∈ B |
 
 ### 9.3: הכלה בחיתוך
 
@@ -60,15 +61,20 @@
 
 ![9.9](images/unit9-level9-a.png)
 
+### 9.10: הגדרה שנייה להפרש הסימטרי
+
+**למה כך:** התכנון מבקש לתת שתי הגדרות להפרש הסימטרי ו"בהינתן זמן להוכיח את השקילות". 9.9 מוכיח את `A ∆ B = (A ∖ B) ∪ (B ∖ A)`, וכאן ההגדרה השנייה, `A ∆ B = (A ∪ B) ∖ (A ∩ B)`. בהכלה הראשונה מחלקים למקרים לפי ה"או" של ההפרש הסימטרי; במקרה x ∈ A ∧ x ∉ B, ה־x ∉ A ∩ B נובע מהשלילה (אילו x ∈ A ∩ B היה x ∈ B). בהכלה השנייה מחלקים לפי x ∈ A ∨ x ∈ B ובוחרים את הצד המתאים; ה־x ∉ B (או x ∉ A) נובע מ־x ∉ A ∩ B. כל המהלכים מוכרים (שלילה והסקה מהשלילה, מיחידה 4), ואין בו מהלך חדש.
+
+![9.10](images/unit9-level10-a.png)
+
 ### שאר השלבים
 
-![9.1](images/unit9-level1-a.png) ![9.2](images/unit9-level2-a.png) ![9.4](images/unit9-level4-a.png) ![9.5](images/unit9-level5-a.png) ![9.10](images/unit9-level10-a.png)
+![9.1](images/unit9-level1-a.png) ![9.2](images/unit9-level2-a.png) ![9.4](images/unit9-level4-a.png) ![9.5](images/unit9-level5-a.png) ![9.11](images/unit9-level11-a.png)
 
 ## מה מההרצאה לא נכנס, ולמה
 
-- **הדוגמאות המפורשות (A = {1, 2, ∅} וכו', והתרגיל לדוגמה על הסטודנטים):** אין בבלוקים קבוצות מפורשות; התרגיל על הסטודנטים הוא דה־מורגן, שמופיע בבונוס 9.10.
+- **הדוגמאות המפורשות (A = {1, 2, ∅} וכו', והתרגיל לדוגמה על הסטודנטים):** אין בבלוקים קבוצות מפורשות; התרגיל על הסטודנטים הוא דה־מורגן, שמופיע בבונוס 9.11.
 - **אידמפוטנטיות, פעולות עם ∅, חוק הקיבוץ, פילוג האיחוד על החיתוך:** אפשריים באותם מהלכים; נבחרו נציגים (חילוף ופילוג) כדי שהיחידה לא תתארך.
-- **A ∆ B = (A ∪ B) ∖ (A ∩ B):** מוזכרת בסיכום של 9.9; בענף `main` יש שלב על כיוון אחד שלה.
 - **הוכחה בשקילויות לוגיות (שרשרת ⟺):** אין מהלך שמחליף שייכות בשייכות שקולה בתוך שוויון קבוצות; ההוכחה כאן בשתי הכלות.
 
 </div>

diff --git a/docs/curriculum/11-partitions.md b/docs/curriculum/11-partitions.md
@@ -25,6 +25,8 @@ S חלוקה של A אם `S ⊆ 𝒫(A) ∖ {∅}` וגם `∀a ∈ A ∃!t ∈ 
 | 11.1 | חלוקה של קבוצה (הגדרה) | partition(S, A), a ∈ A ⊢ ∃t (t ∈ S ∧ a ∈ t) | לפי ההגדרה, "וגם", הצבה, הסקה קדימה, "קיים", סיום |
 | 11.2 | יחידות המחלקה (בהגדרה, ובמשפט) | partition(T, A), a ∈ C, a ∈ D ⊢ D = C | לפי ההגדרה, "וגם", הצבה, הסקה קדימה, "קיים", החלפה לפי שוויון, שני הצדדים שווים |
 | 11.3 | משפט: חלוקה המוכלת בחלוקה שווה לה | partition(S, A), partition(T, A), S ⊆ T ⊢ S = T | שוויון קבוצות, הכלה, לפי ההגדרה, "וגם", הצבה, הסקה קדימה, "קיים", שימוש בהכלה, החלפה לפי שוויון, סיום |
+| 11.4 | הגדרה שקולה של חלוקה (⇒) | partition(P, A) ⊢ ⋃P = A ∧ ∀x, y ∈ P (x ∩ y = ∅ ∨ x = y) | לפי ההגדרה, "וגם", שוויון קבוצות, הכלה, הצבה, הסקה קדימה, "קיים", "או" בהנחת שלילה, טענת עזר, בשלילה, החלפה לפי שוויון, שני הצדדים שווים |
+| 11.5 | הגדרה שקולה של חלוקה (⇐) | (1), ⋃P = A, (3) ⊢ partition(P, A) | לפי ההגדרה, "וגם", "לכל", החלפה לפי שוויון, "קיים", הצבה, הסקה קדימה, חלוקה למקרים, טענת עזר, מסתירה נובע הכול |
 
 ### 11.1: כל איבר שייך למחלקה
 
@@ -44,9 +46,14 @@ S חלוקה של A אם `S ⊆ 𝒫(A) ∖ {∅}` וגם `∀a ∈ A ∃!t ∈ 
 
 ![11.3](images/unit11-level3-a.png)
 
+### 11.4 ו־11.5: ההגדרה השקולה של חלוקה
+
+**למה כך:** השקף "הגדרה שקולה של חלוקה", והתכנון ("יש להראות שקילות, אפשר על ידי הסבר או הוכחה בהינתן זמן"). כל כיוון הוא שלב. בכיוון ⇒ (11.4), תנאי (1) הוא החלק הראשון של ההגדרה, ולכן נשארים (2), ⋃P = A בשתי הכלות, ו־(3): כדי להוכיח "או" מניחים את שלילת הצד הראשון, x ∩ y ≠ ∅, ומשתמשים בטענת עזר: קיים a ∈ x ∩ y (בשלילה: אחרת x ∩ y = ∅); ואז, מיחידות המחלקה של a, x = t₀ = y. בכיוון ⇐ (11.5) מחליפים את A ב־⋃P לפי ⋃P = A, ומ־(3) מקבלים t′ ∩ S₀ = ∅ או t′ = S₀, והראשון נשלל, כי a ∈ t′ ∩ S₀. שם המשפחה כאן P, ולא S, כדי שלא יתבלבל עם המשתנה הקשור S של האיחוד האונרי.
+
+![11.4](images/unit11-level4-a.png) ![11.5](images/unit11-level5-a.png)
+
 ## מה מההרצאה לא נכנס, ולמה
 
-- **ההגדרה השקולה של חלוקה (`⋃S = A` ו־`∀x, y ∈ S (x ∩ y = ∅ ∨ x = y)`) והוכחת השקילות:** צריך איחוד אונרי של S, והחיתוך הריק; השקף הזה ארוך, והמשפט של 11.3 לא תלוי בו. אפשר להוסיף בעתיד.
 - **דוגמאות לחלוקות והדוגמאות הנגדיות שלהן ({{1,2},{2,3}} וכו'):** אין בבלוקים קבוצות מפורשות.
 - **ההערה על התנאי "לא ריקה":** מוזכרת בסיכום של 11.3, בלי הוכחה בבלוקים (צריכה את היחידון {1}).
 
